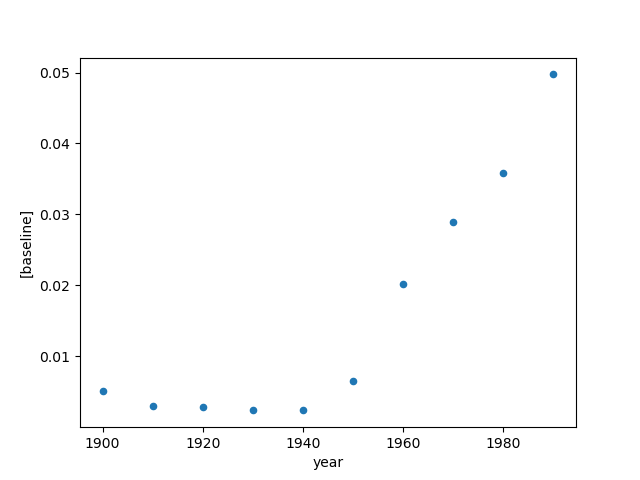
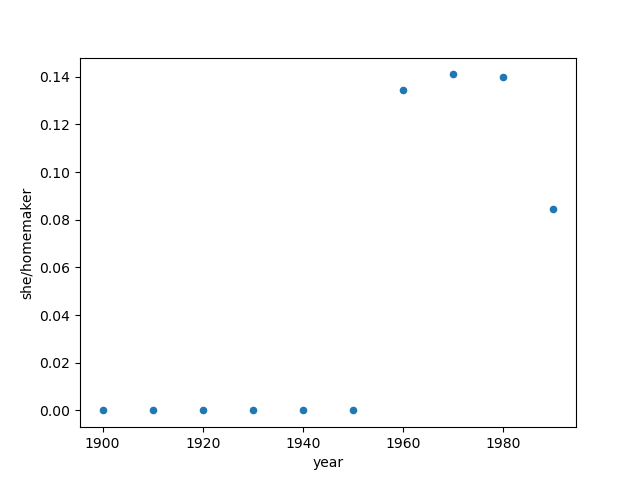
b

diff --git a/do_experiment.py b/do_experiment.py
@@ -105,7 +105,9 @@ if __name__ == "__main__":
     #df.plot(kind='scatter', x='year', y='he/housekeeper', ax=ax)
     #df.plot(kind='scatter', x='year', y='she/housekeeper', ax=ax)
     #plt.savefig("difplot.png")
-    df.plot(x='year', y=['baseline', 'he/housekeepr', 'she/housekeeper'], kind="scatter")
+    df.plot(x='year', y='baseline', kind="scatter")
+    df.plot(x='year', y='he/homemaker', kind='scatter')
+    df.plot(x='year', y='she/homemaker', kind='scatter')
     #df.plot(x='year', y=["baseline", "he/housekeeper", "she/housekeeper"], kind="scatter")
     plt.savefig('plot.png')
     #df.plot(x='year', y=["baseline", "he/housekeeper"], kind="scatter")
